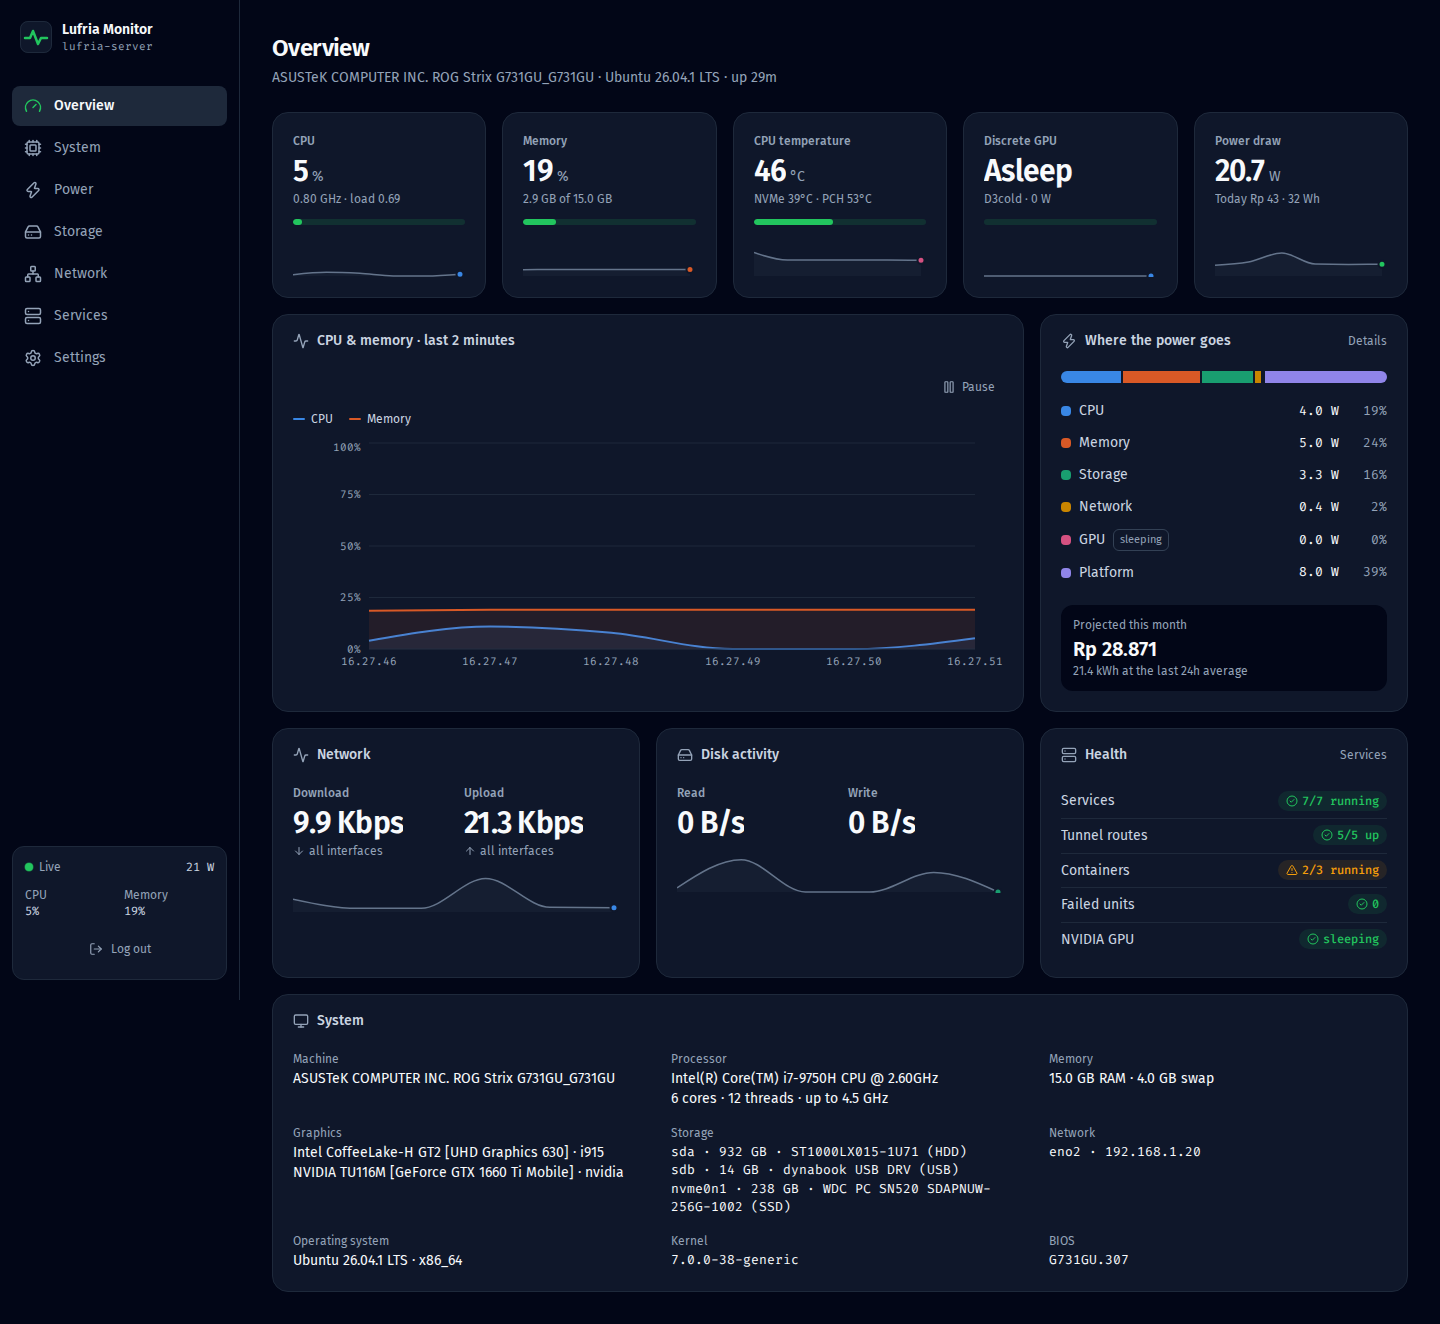
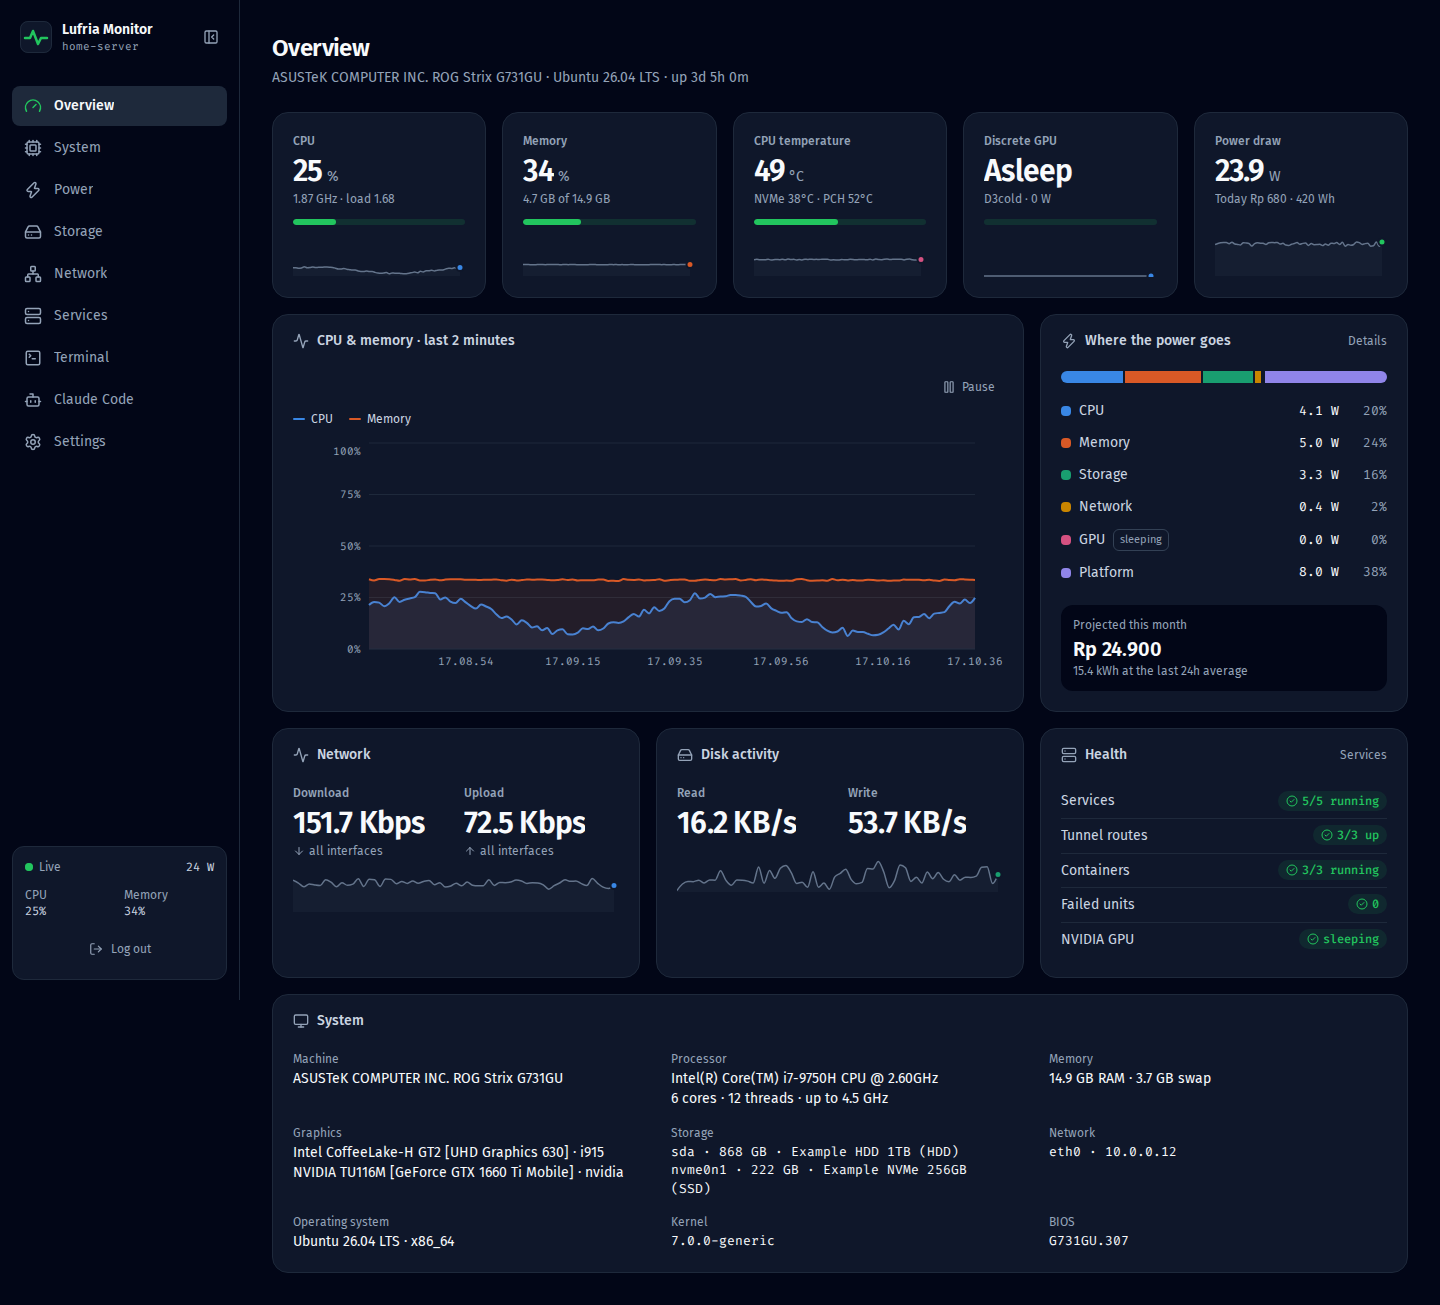
docs: refresh README and screenshots with Claude Code views
Add Claude Code screenshots (chat, folder lock, model picker, usage
history, mobile), retake overview and login with fake data, document
terminal uploads and add a Security section. tools/screenshots.mjs
regenerates the images from the real build with every API faked.

diff --git a/README.md b/README.md
@@ -15,6 +15,18 @@ is specific to that machine.
 | **Terminal** | **Sign-in: passkey or QR** |
 | ![Terminal](docs/screenshots/desktop-terminal.png) | ![Sign-in](docs/screenshots/login.png) |
 
+### Claude Code
+
+![Claude Code](docs/screenshots/desktop-claude.png)
+
+| Folder and folder lock | Models: official and custom | Usage and cost history |
+|---|---|---|
+| ![Folder picker](docs/screenshots/desktop-claude-folder.png) | ![Model picker](docs/screenshots/desktop-claude-models.png) | ![Usage history](docs/screenshots/desktop-claude-usage.png) |
+
+<img src="docs/screenshots/mobile-claude.png" alt="Claude Code on a phone" width="260">
+
+Screenshots are generated from the real build with fake data by [tools/screenshots.mjs](tools/screenshots.mjs).
+
 ## Features
 
 - **Live dashboard** over WebSocket, refreshed every second, with per-minute history kept for 400 days.
@@ -35,6 +47,7 @@ is specific to that machine.
   - Copy and paste everywhere: Ctrl+C/Ctrl+V (⌘C/⌘V on a Mac), Copy/Paste buttons for phones, a selectable
     scrollback view, and OSC 52 so drag-to-copy works inside apps like Claude Code, tmux and vim.
   - Adjustable text size, and extra keys (Esc, Tab, Ctrl, arrows) for phone keyboards.
+  - Paste or drop a screenshot or file: it is uploaded to the server and its path is typed into the shell.
   - It runs as the dashboard's user, so anyone who can sign in gets that user's shell.
 - **Claude Code:** chat with the real Claude Code CLI on the server. [Details](docs/claude-code.md).
   - Its slash commands, skills and agents, `@` file mentions, `!` bash, `#` memory, plan mode with approval.
@@ -69,6 +82,17 @@ published as world-readable JSON. The web app itself runs as an unprivileged use
 - Backend: Python 3.12+ (FastAPI, psutil, SQLite).
 - Frontend: React 19, Vite, TypeScript, Tailwind CSS 4, Recharts, xterm.js, Lucide icons, Fira Sans and Fira Code (self-hosted).
 
+## Security
+
+This dashboard can start a shell on the machine it runs on. Treat it like SSH access:
+
+- Only expose it over HTTPS (for example through Cloudflare Tunnel) and add a passkey before you rely on it.
+- The terminal and Claude Code run as the dashboard's user. If that user has passwordless `sudo`, anyone who
+  can sign in has root. Remove that `sudo` rule if you don't need it.
+- Don't put it on the open internet without the passkey step. The LAN address works only with the QR sign-in.
+
+Report security problems privately through a GitHub security advisory rather than a public issue.
+
 ## Quick start
 
 On Ubuntu 24.04 or newer:
@@ -85,7 +109,8 @@ sudo deploy/install.sh                       # root helper + dashboard as system
 ```
 
 Then open `http://<server-ip>:8090` and sign in with the bootstrap password. Expose it over HTTPS, set
-`MONITOR_ORIGIN`, and add a passkey in **Settings → Sign-in**: from then on the password is refused.
+`MONITOR_ORIGIN` to your own domain (the default points to the author's), and add a passkey in
+**Settings → Sign-in**: from then on the password is refused.
 The full walkthrough is in [docs/setup.md](docs/setup.md). It covers Cloudflare Tunnel, passkeys, NVIDIA
 laptops, updating, uninstalling and troubleshooting.
 
@@ -109,7 +134,7 @@ laptops, updating, uninstalling and troubleshooting.
 backend/    FastAPI app (app/main.py), sign-in (auth.py), terminal (terminal.py), collectors, energy math
 frontend/   React app (src/pages, src/components, palette.ts = validated chart colors)
 deploy/     systemd units, root helper, installers (bootstrap, install, WattSeal, speedtest, NVIDIA)
-tools/      stress-test.sh + gpu_burn.py, to watch the dashboard under full load
+tools/      stress-test.sh + gpu_burn.py (full-load test), screenshots.mjs (README screenshots, fake data)
 docs/       guides and screenshots
 ```
 
@@ -120,6 +145,12 @@ docs/       guides and screenshots
   disk, network and GPU power formulas and cites them in [docs/power-model.md](docs/power-model.md).
 - [Ookla Speedtest CLI](https://www.speedtest.net/apps/cli) runs the internet speed tests. It is downloaded
   by `deploy/install-speedtest.sh` because Ookla's license does not allow redistributing it.
+
+## Contributing
+
+Issues and pull requests are welcome. Run the backend tests (`cd backend && .venv/bin/python -m unittest discover -s tests`)
+and build the frontend (`cd frontend && npm run build`) before you open a PR. The project layout and conventions
+are in [docs/development.md](docs/development.md).
 
 ## License
 
